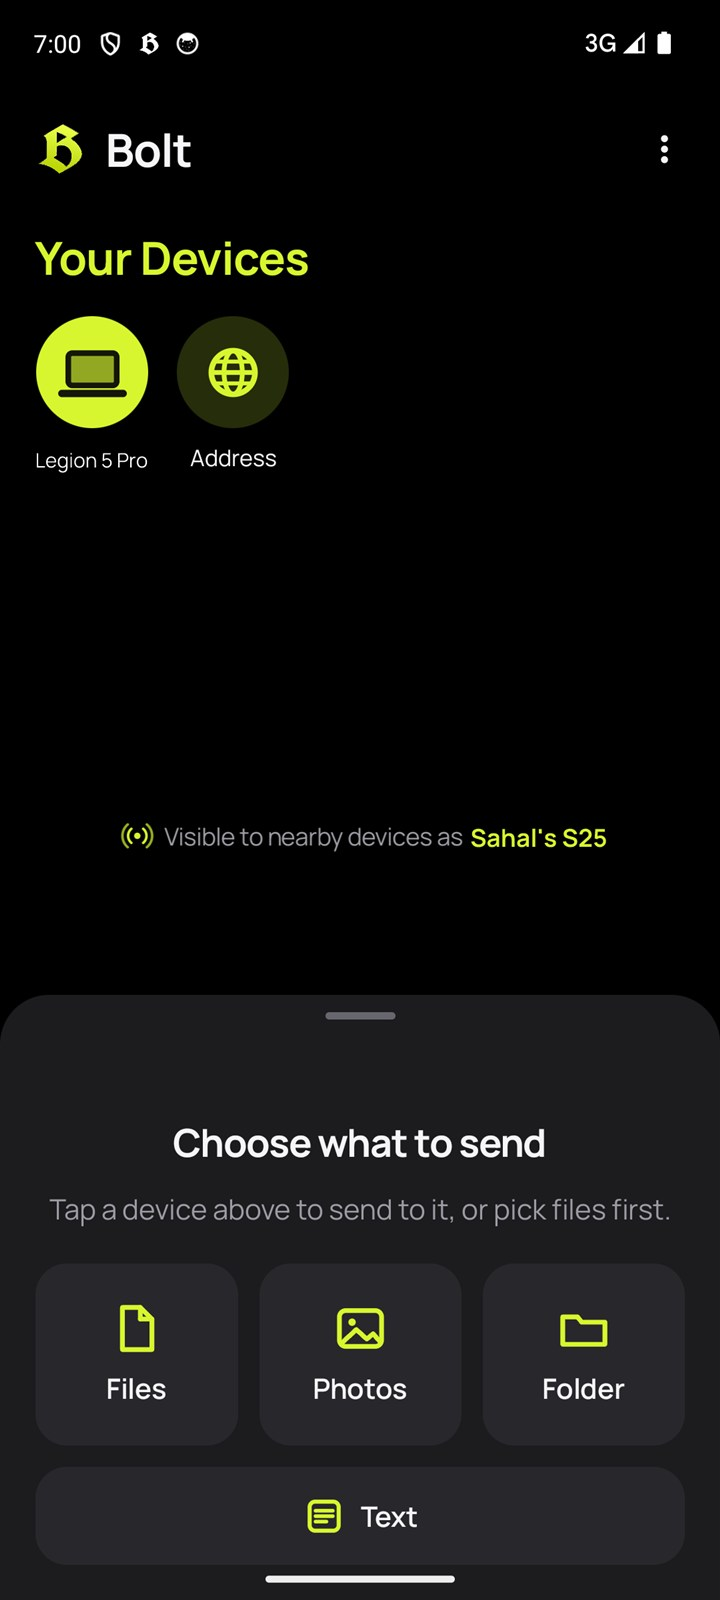
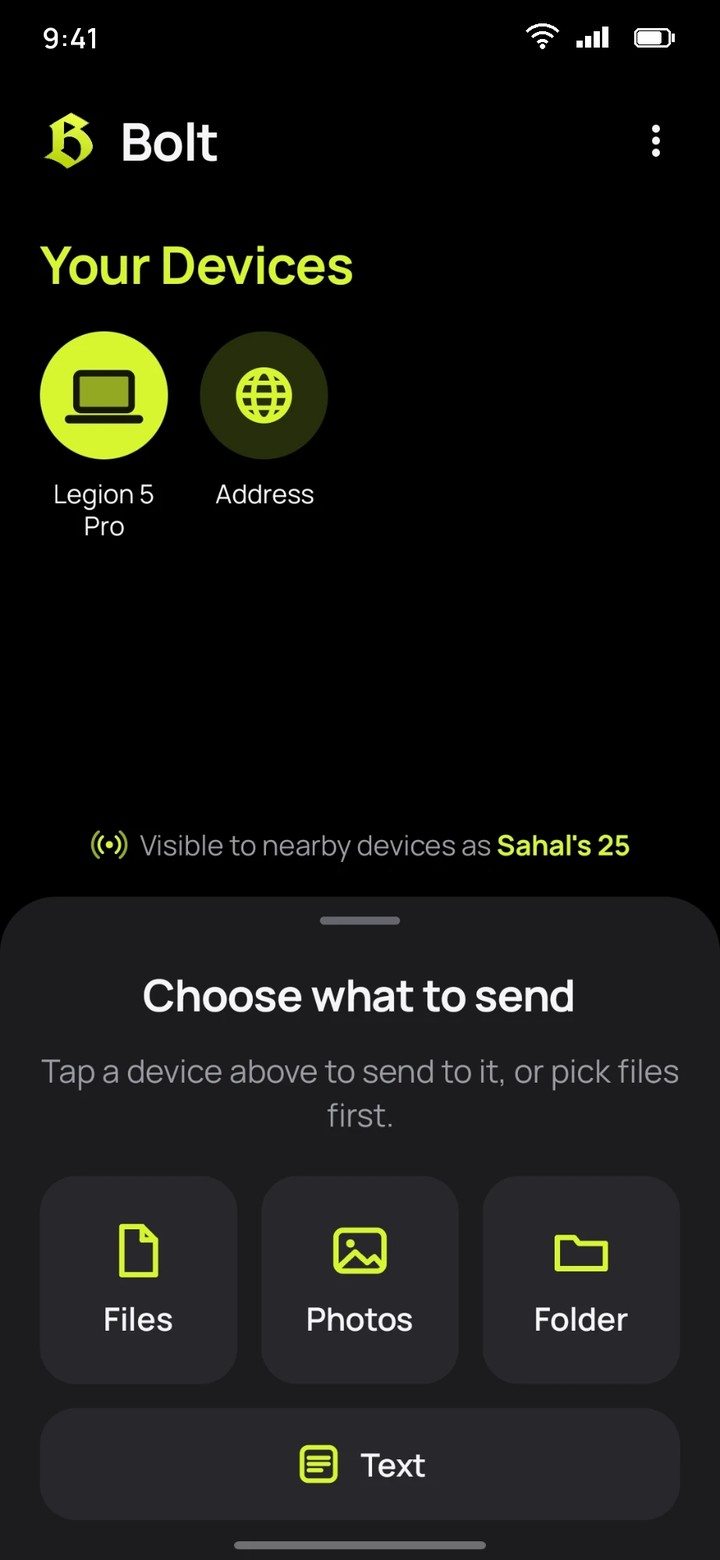
Site: real phone screenshot with a clean status bar

diff --git a/web/src/components/Showcase.tsx b/web/src/components/Showcase.tsx
@@ -11,7 +11,7 @@ export function Showcase() {
               src="phone-home.jpg"
               alt="The Bolt Android home screen showing nearby devices and the Files, Photos, Folder and Text buttons"
               width={720}
-              height={1600}
+              height={1560}
               loading="lazy"
             />
           </div>
